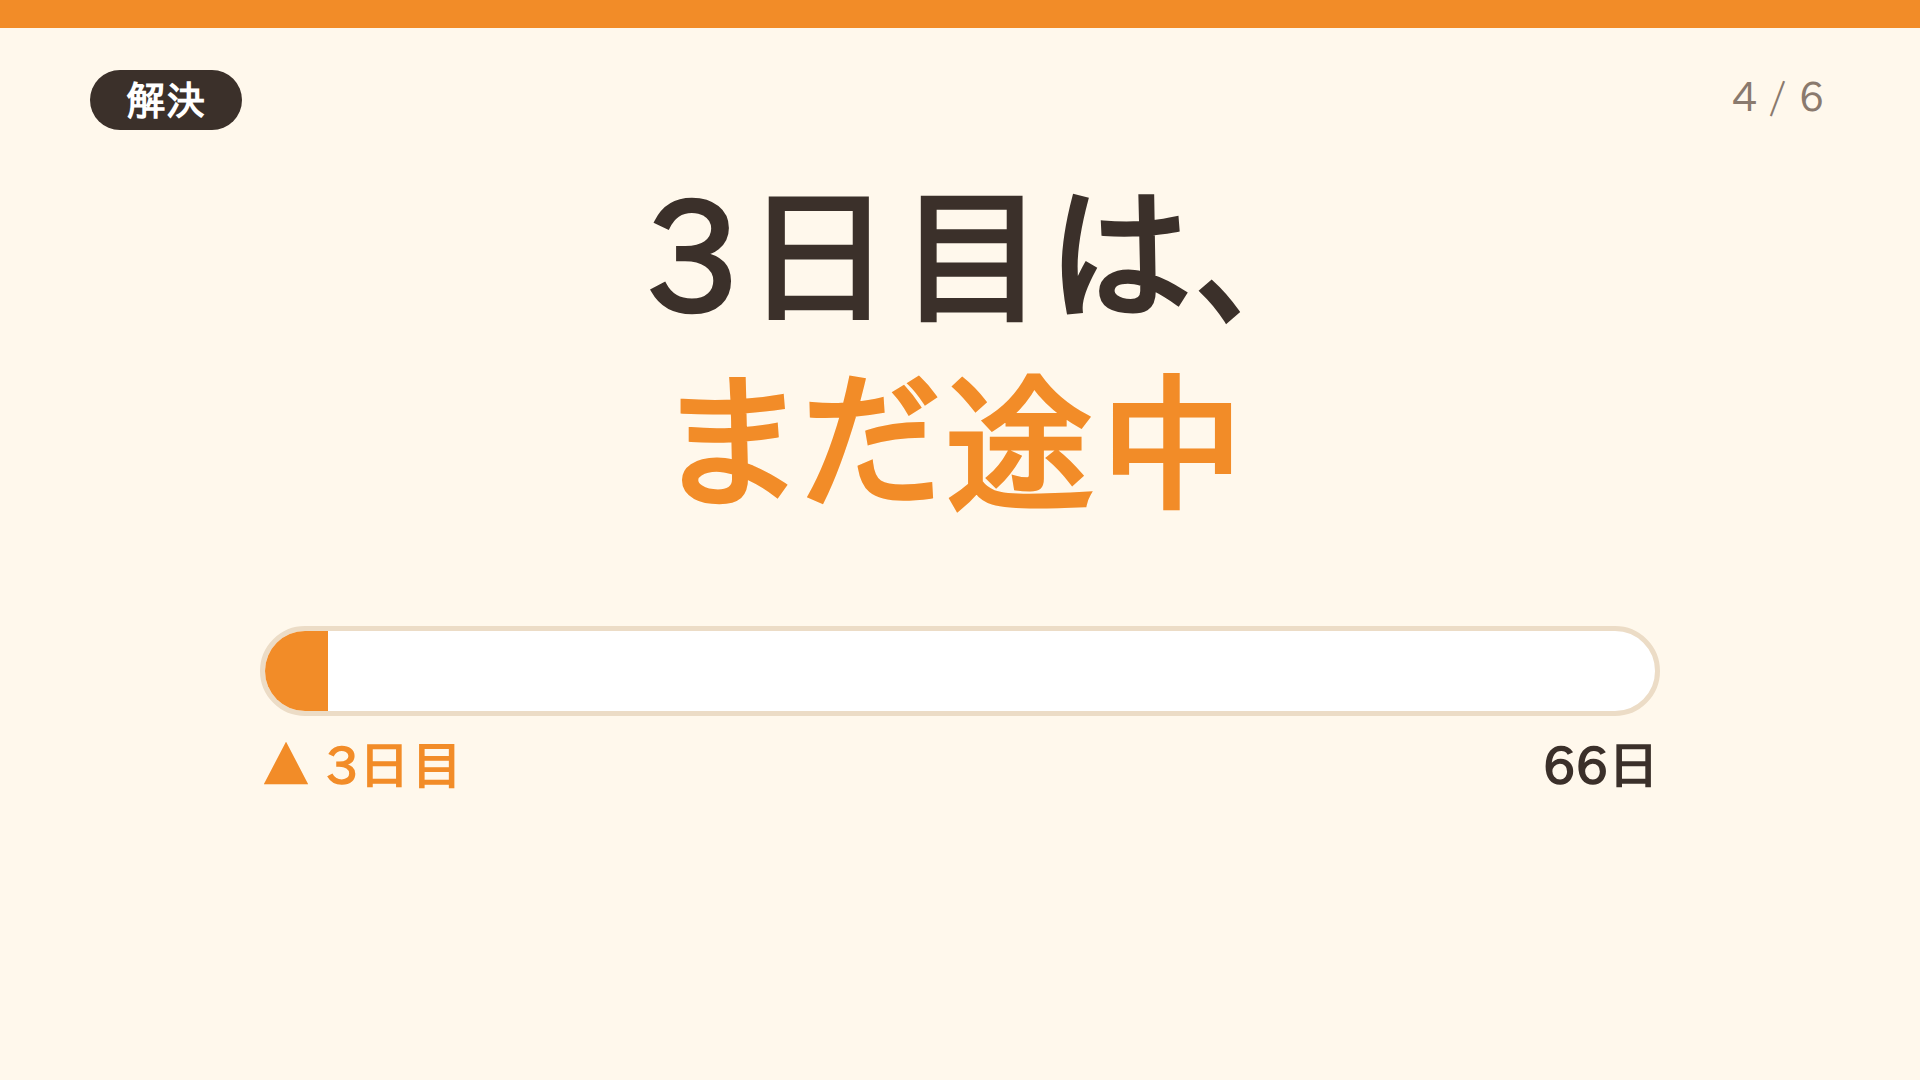
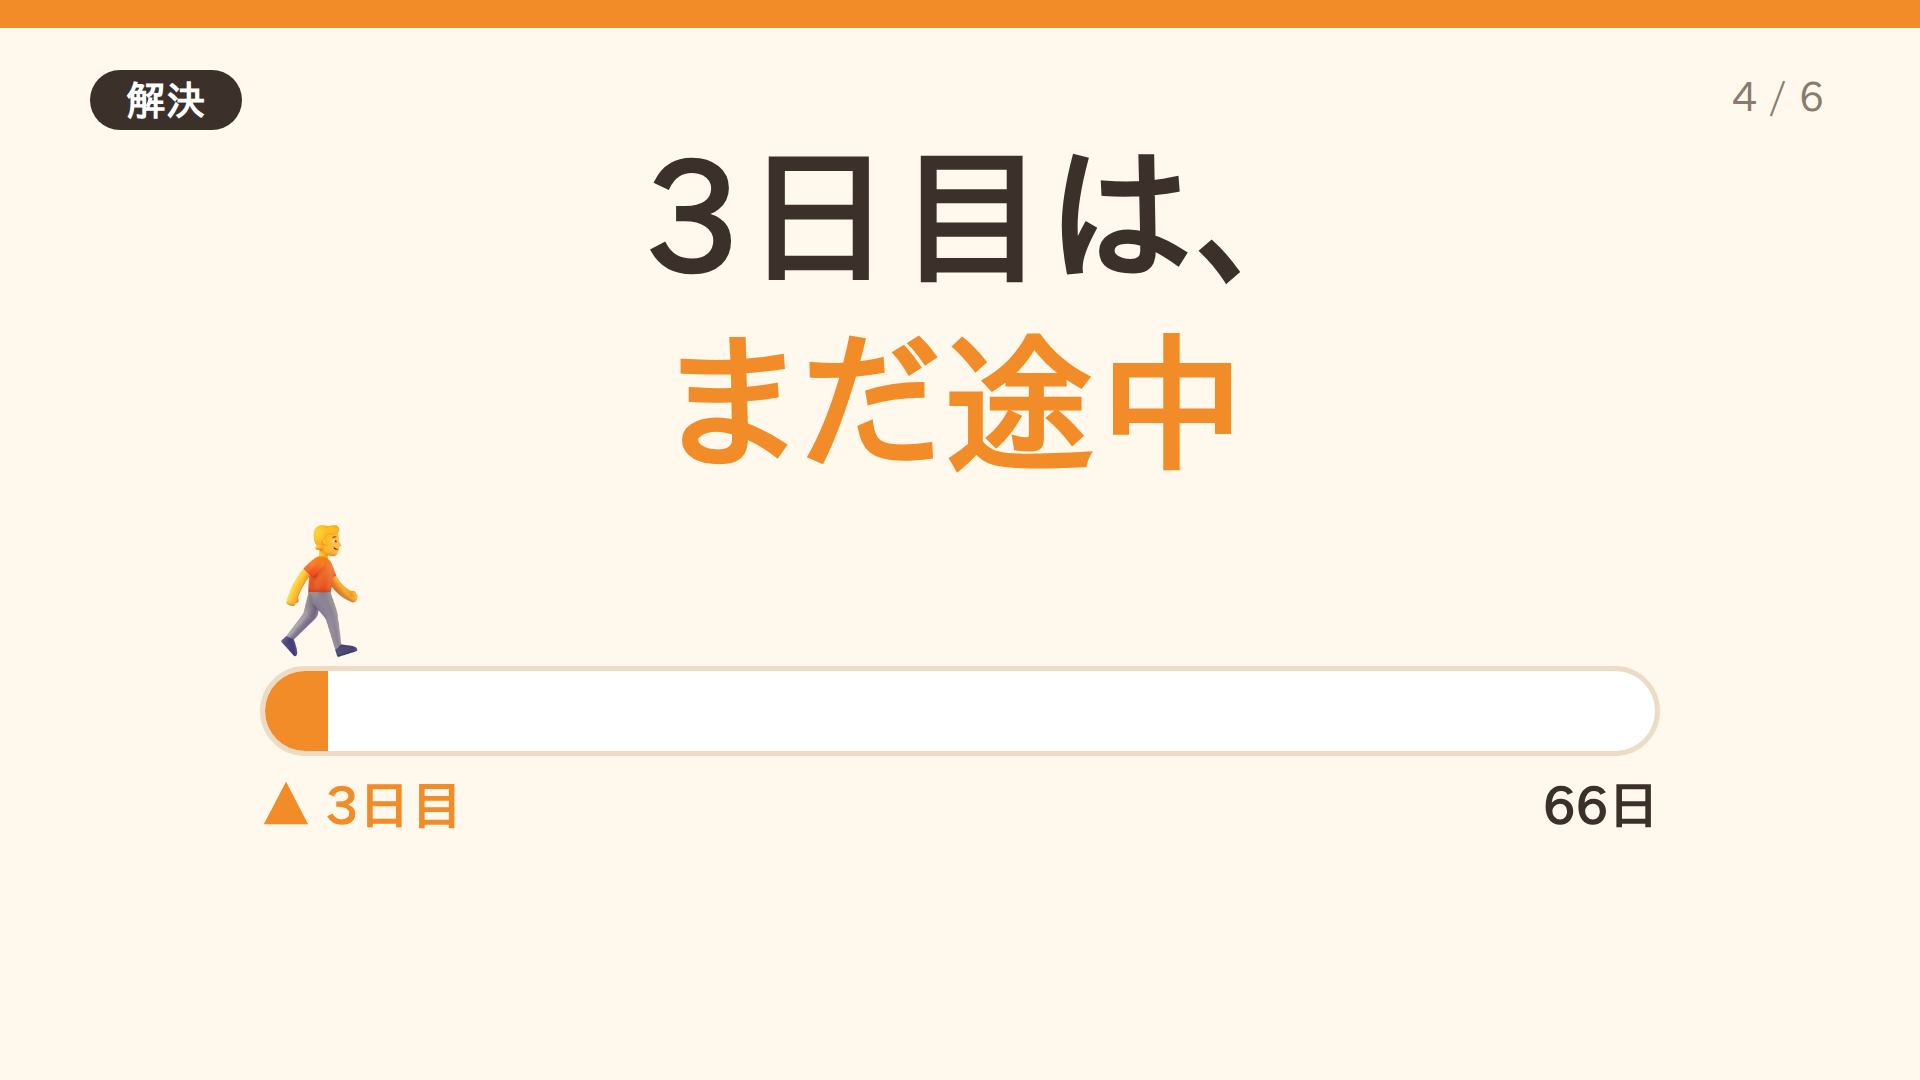
Add Fluent Emoji illustrations to video slides and re-export
Images are MIT-licensed Microsoft Fluent Emoji; sources listed in
video_slides/images/CREDITS.md.

Claude-Session: https://claude.ai/code/session_01DHyjR3QJiwmrtprxRMU6x6

Changed region(s): [[0.125, 0.4889, 0.875, 0.7639], [0.3438, 0.1222, 0.6562, 0.4889]]

diff --git a/video_slides/slides.html b/video_slides/slides.html
@@ -82,6 +82,18 @@
     display: inline-block; font-size: 110px; font-weight: bold; color: #fff;
     background: var(--zunda); border-radius: 36px; padding: 24px 70px;
   }
+
+  /* イラスト */
+  .ill { display: block; object-fit: contain; }
+  .row { display: flex; align-items: center; justify-content: center; gap: 40px; }
+  .chip { display: flex; align-items: center; gap: 24px; }
+  .chip img { width: 110px; height: 110px; }
+  .walker {
+    position: absolute; left: calc(4.5% - 75px); bottom: 100%;
+    width: 150px; height: 150px; transform: scaleX(-1);
+  }
+  .bar-wrap { position: relative; width: 1400px; margin-top: 170px; }
+  .bar-wrap .bar { margin-top: 0; }
 </style>
 </head>
 <body>
@@ -91,8 +103,8 @@
   <div class="tag">導入</div><div class="no">1 / 6</div>
   <div class="big">3日坊主、<br>ありますか？</div>
   <div class="chips">
-    <div class="chip"><s>日記</s></div>
-    <div class="chip"><s>ランニング</s></div>
+    <div class="chip"><img src="images/notebook.webp" alt=""><s>日記</s></div>
+    <div class="chip"><img src="images/shoe.webp" alt=""><s>ランニング</s></div>
   </div>
 </section>
 
@@ -100,14 +112,14 @@
 <section class="slide" data-n="2">
   <div class="tag">疑問</div><div class="no">2 / 6</div>
   <div class="mid"><span class="cross">意志が弱いから</span></div>
-  <div class="big mt">じゃあ、<span class="accent">なぜ？</span></div>
+  <div class="row mt"><img class="ill" src="images/thinking.webp" alt="" style="width:240px;height:240px"><div class="big">じゃあ、<span class="accent">なぜ？</span></div></div>
 </section>
 
 <!-- 3 解決：66日 -->
 <section class="slide" data-n="3">
   <div class="tag">解決</div><div class="no">3 / 6</div>
   <div class="mid">習慣になるまで 平均</div>
-  <div class="num">66<span>日</span></div>
+  <div class="row"><img class="ill" src="images/calendar.webp" alt="" style="width:240px;height:240px"><div class="num">66<span>日</span></div></div>
   <div class="mid mt" style="font-size:72px">人によって <span class="accent">18日〜254日</span></div>
   <div class="note">ロンドン大学の研究（参加者96人）より</div>
 </section>
@@ -116,7 +128,7 @@
 <section class="slide" data-n="4">
   <div class="tag">解決</div><div class="no">4 / 6</div>
   <div class="big">3日目は、<br><span class="accent">まだ途中</span></div>
-  <div class="bar"><div class="fill"></div></div>
+  <div class="bar-wrap"><img class="walker" src="images/walking.webp" alt=""><div class="bar"><div class="fill"></div></div></div>
   <div class="bar-labels"><span class="marker">▲ 3日目</span><span>66日</span></div>
 </section>
 
@@ -124,14 +136,14 @@
 <section class="slide" data-n="5">
   <div class="tag">コツ</div><div class="no">5 / 6</div>
   <div class="mid">やめられないほど<br><span class="accent">小さく</span>する</div>
-  <div class="mt"><span class="pill">1日1行・1分</span></div>
+  <div class="row mt"><img class="ill" src="images/memo.webp" alt="" style="width:180px;height:180px"><span class="pill">1日1行・1分</span><img class="ill" src="images/hourglass.webp" alt="" style="width:180px;height:180px"></div>
 </section>
 
 <!-- 6 まとめ -->
 <section class="slide" data-n="6">
   <div class="tag">まとめ</div><div class="no">6 / 6</div>
   <div class="mid">66日続けるつもりで</div>
-  <div class="big mt">今日は<span class="accent">1分</span>だけ</div>
+  <div class="row mt"><img class="ill" src="images/seedling.webp" alt="" style="width:240px;height:240px"><div class="big">今日は<span class="accent">1分</span>だけ</div></div>
 </section>
 
 <script>

diff --git a/video_slides/images/CREDITS.md b/video_slides/images/CREDITS.md
@@ -1,0 +1,40 @@
+# 画像素材の出典
+
+すべて Microsoft「Fluent Emoji」(3D版) を使用。MITライセンス（商用利用可）。
+- 配布元: https://github.com/microsoft/fluentui-emoji
+- 取得元パッケージ: https://www.npmjs.com/package/@lobehub/fluent-emoji-3d (v1.1.0)
+
+| ファイル | 絵文字 | 使用スライド |
+|---|---|---|
+| notebook.webp | 📓 ノート (U+1F4D3) | scene_01 |
+| shoe.webp | 👟 ランニングシューズ (U+1F45F) | scene_01 |
+| thinking.webp | 🤔 考える顔 (U+1F914) | scene_02 |
+| calendar.webp | 📅 カレンダー (U+1F4C5) | scene_03 |
+| walking.webp | 🚶 歩く人 (U+1F6B6) | scene_04 |
+| memo.webp | 📝 メモ (U+1F4DD) | scene_05 |
+| hourglass.webp | ⏳ 砂時計 (U+23F3) | scene_05 |
+| seedling.webp | 🌱 芽 (U+1F331) | scene_06 |
+
+## ライセンス本文
+
+MIT License
+
+Copyright (c) Microsoft Corporation.
+
+Permission is hereby granted, free of charge, to any person obtaining a copy
+of this software and associated documentation files (the "Software"), to deal
+in the Software without restriction, including without limitation the rights
+to use, copy, modify, merge, publish, distribute, sublicense, and/or sell
+copies of the Software, and to permit persons to whom the Software is
+furnished to do so, subject to the following conditions:
+
+The above copyright notice and this permission notice shall be included in all
+copies or substantial portions of the Software.
+
+THE SOFTWARE IS PROVIDED "AS IS", WITHOUT WARRANTY OF ANY KIND, EXPRESS OR
+IMPLIED, INCLUDING BUT NOT LIMITED TO THE WARRANTIES OF MERCHANTABILITY,
+FITNESS FOR A PARTICULAR PURPOSE AND NONINFRINGEMENT. IN NO EVENT SHALL THE
+AUTHORS OR COPYRIGHT HOLDERS BE LIABLE FOR ANY CLAIM, DAMAGES OR OTHER
+LIABILITY, WHETHER IN AN ACTION OF CONTRACT, TORT OR OTHERWISE, ARISING FROM,
+OUT OF OR IN CONNECTION WITH THE SOFTWARE OR THE USE OR OTHER DEALINGS IN THE
+SOFTWARE.
